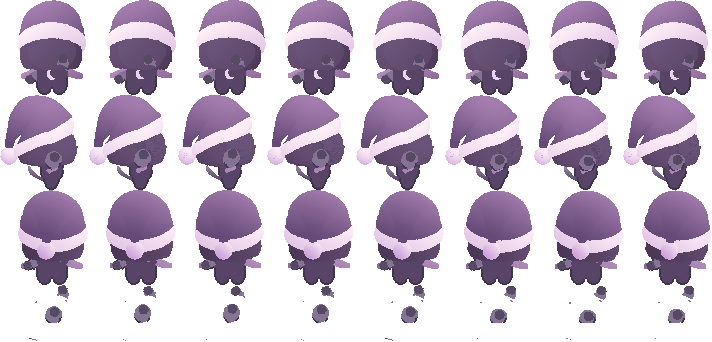
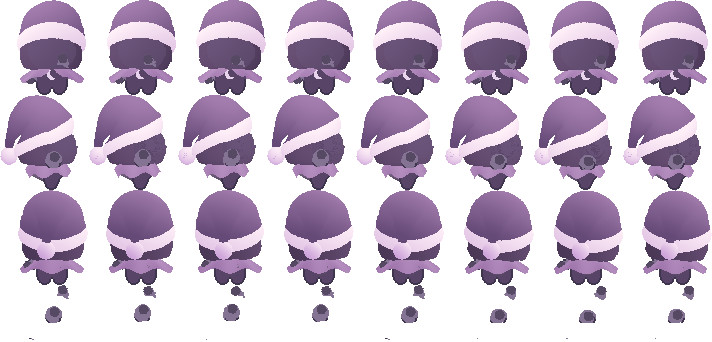
ツキミに肩と背中を包むケープを付ける

diff --git a/tools/art/spirit3d/light_dark.py b/tools/art/spirit3d/light_dark.py
@@ -6,6 +6,8 @@
 折り返しは額で高さ約56ドット、うなじで約32ドット。幅12〜16ドットの
 帯を頭に回し、その上辺に丸い紫の布をつなぐ。布は後頭部の中央近くで
 帯の上にたれ、うなじの高さで直径約18ドットの房をとめる。
+ケープは首もとから幅約64ドットに広がり、肩と背中を一枚の布で包む。
+胸の前は開いて三日月で留め、裾は丸い波形にする。
 """
 from math import pi
 import numpy as np
@@ -118,7 +120,7 @@ def chest_mark(body, dark):
         pigment = tones(rgb('#ecad48'),rgb('#fff2ad'),
                         np.clip(.58+.45*depth[mask]-.10*x[mask],0,1))
     at = surface_points[mask].copy()
-    at[:,1] += .32
+    at[:,1] += 1.9 if dark else .32
     return at,pigment
 
 
@@ -182,19 +184,28 @@ def night_cap():
 
 
 def mantle():
-    """左右の肩から伸びて、先へ行くほど下がる短い外套。"""
-    u,v = np.meshgrid(np.linspace(0,1,100),np.linspace(0,1,55),indexing='ij')
-    u,v = u.ravel(),v.ravel()
-    x = 7+24*u
-    top = 30-10*u
-    bottom = 22-12*u+6*u**3
-    z = top*(1-v)+bottom*v
-    y = (7.2-3.5*u)*np.cos(pi*v)+2*u
-    right = np.column_stack((x,y,z))
-    left = right*np.array([-1,1,1])
-    points = np.concatenate((right,left))
-    shade = np.clip(.64+.017*(points[:,2]-21)-.007*points[:,0],0,1)
-    return points,tones(rgb('#795483'),rgb('#bc96c5'),shade)
+    """三日月の留め具から肩と背中を一枚で包む短いケープ。"""
+    drop = np.linspace(0,1,115)[:,None]
+    around = np.linspace(0,1,560)
+    opening = .035+.36*drop**1.35
+    angle = opening+(2*pi-2*opening)*around
+    side,front = np.sin(angle),np.cos(angle)
+
+    # 襟から肩へ広げ、六つの丸い山が裾につながる。
+    lobe = .5+.5*np.cos(6*angle)
+    ripple = lobe*drop**2.4
+    x = (9.4+22.2*drop+1.4*ripple)*side
+    y = (11.5+9.8*drop+.9*ripple)*front
+    y += drop*(4.5*side**2-.7)
+    # 背中の布はしっぽのつけ根を覆い、下からしっぽを出す。
+    y -= 9*np.maximum(-front,0)**5*np.sin(pi*drop)**1.5
+    hem = 16.3+1.1*front-5*lobe
+    z = 28.7+(hem-28.7)*drop**1.3
+    cloth = np.stack((x,y,z),axis=-1).reshape(-1,3)
+
+    shade = np.clip(.69-.26*drop+.15*lobe*drop-.09*side+.035*front,0,1)
+    color = tones(rgb('#875995'),rgb('#c9a6d2'),shade.ravel())
+    return cloth,color
 
 
 class LightDark(Spirit):

diff --git a/handoff/from-gpt.md b/handoff/from-gpt.md
@@ -37,6 +37,7 @@
 - 持ち主の見本を元に3Dで組んだ。水の精霊と同じ顔、体、手足、骨と、共通の表情チップを使った。
 - 新しい設定画に合わせ、トモリの頭巾に金色の縁をつけ、先のとがった七つの光を横からも順に見えるように並べた。
 - ツキミは丸い紫のナイトキャップと淡い桃紫の折り返しにした。縁は額からうなじへ回り、布は後頭部を覆って、背面中央近くの房まで続く。正面の房は頭の後ろにかくれる。
+- ツキミに、首もとから肩と背中を一枚で包む淡い紫のケープを付けた。胸もとは開いて三日月で留め、裾は丸い波形にした。しっぽのつけ根を布が覆う。
 - [正面・右・背面・左](files/H-4/character-views.png) ・ [歩く動き](files/H-4/walk.gif) ・ [動きの見本](files/H-4/motion-views.png)
 - `parts/` に頭巾・飾り・顔・しっぽなどの透過 PNG、`motions/` に11動作 × 2属性の WebP を置いた。各動作のシートは正面・横・後ろの順。全552コマが書き出され、正面と横から写した帽子を含む19点の部品の大きさと透過も確認した。目の位置、手の位置、絵の基準は [sprites.json](files/H-4/sprites.json)。
 - `python3 tools/art/spirit3d/build_handoff.py handoff/files/H-4` で同じ絵を作る。動作名を指定して別の動きも出せる。 `--all` で全動作を写す。
